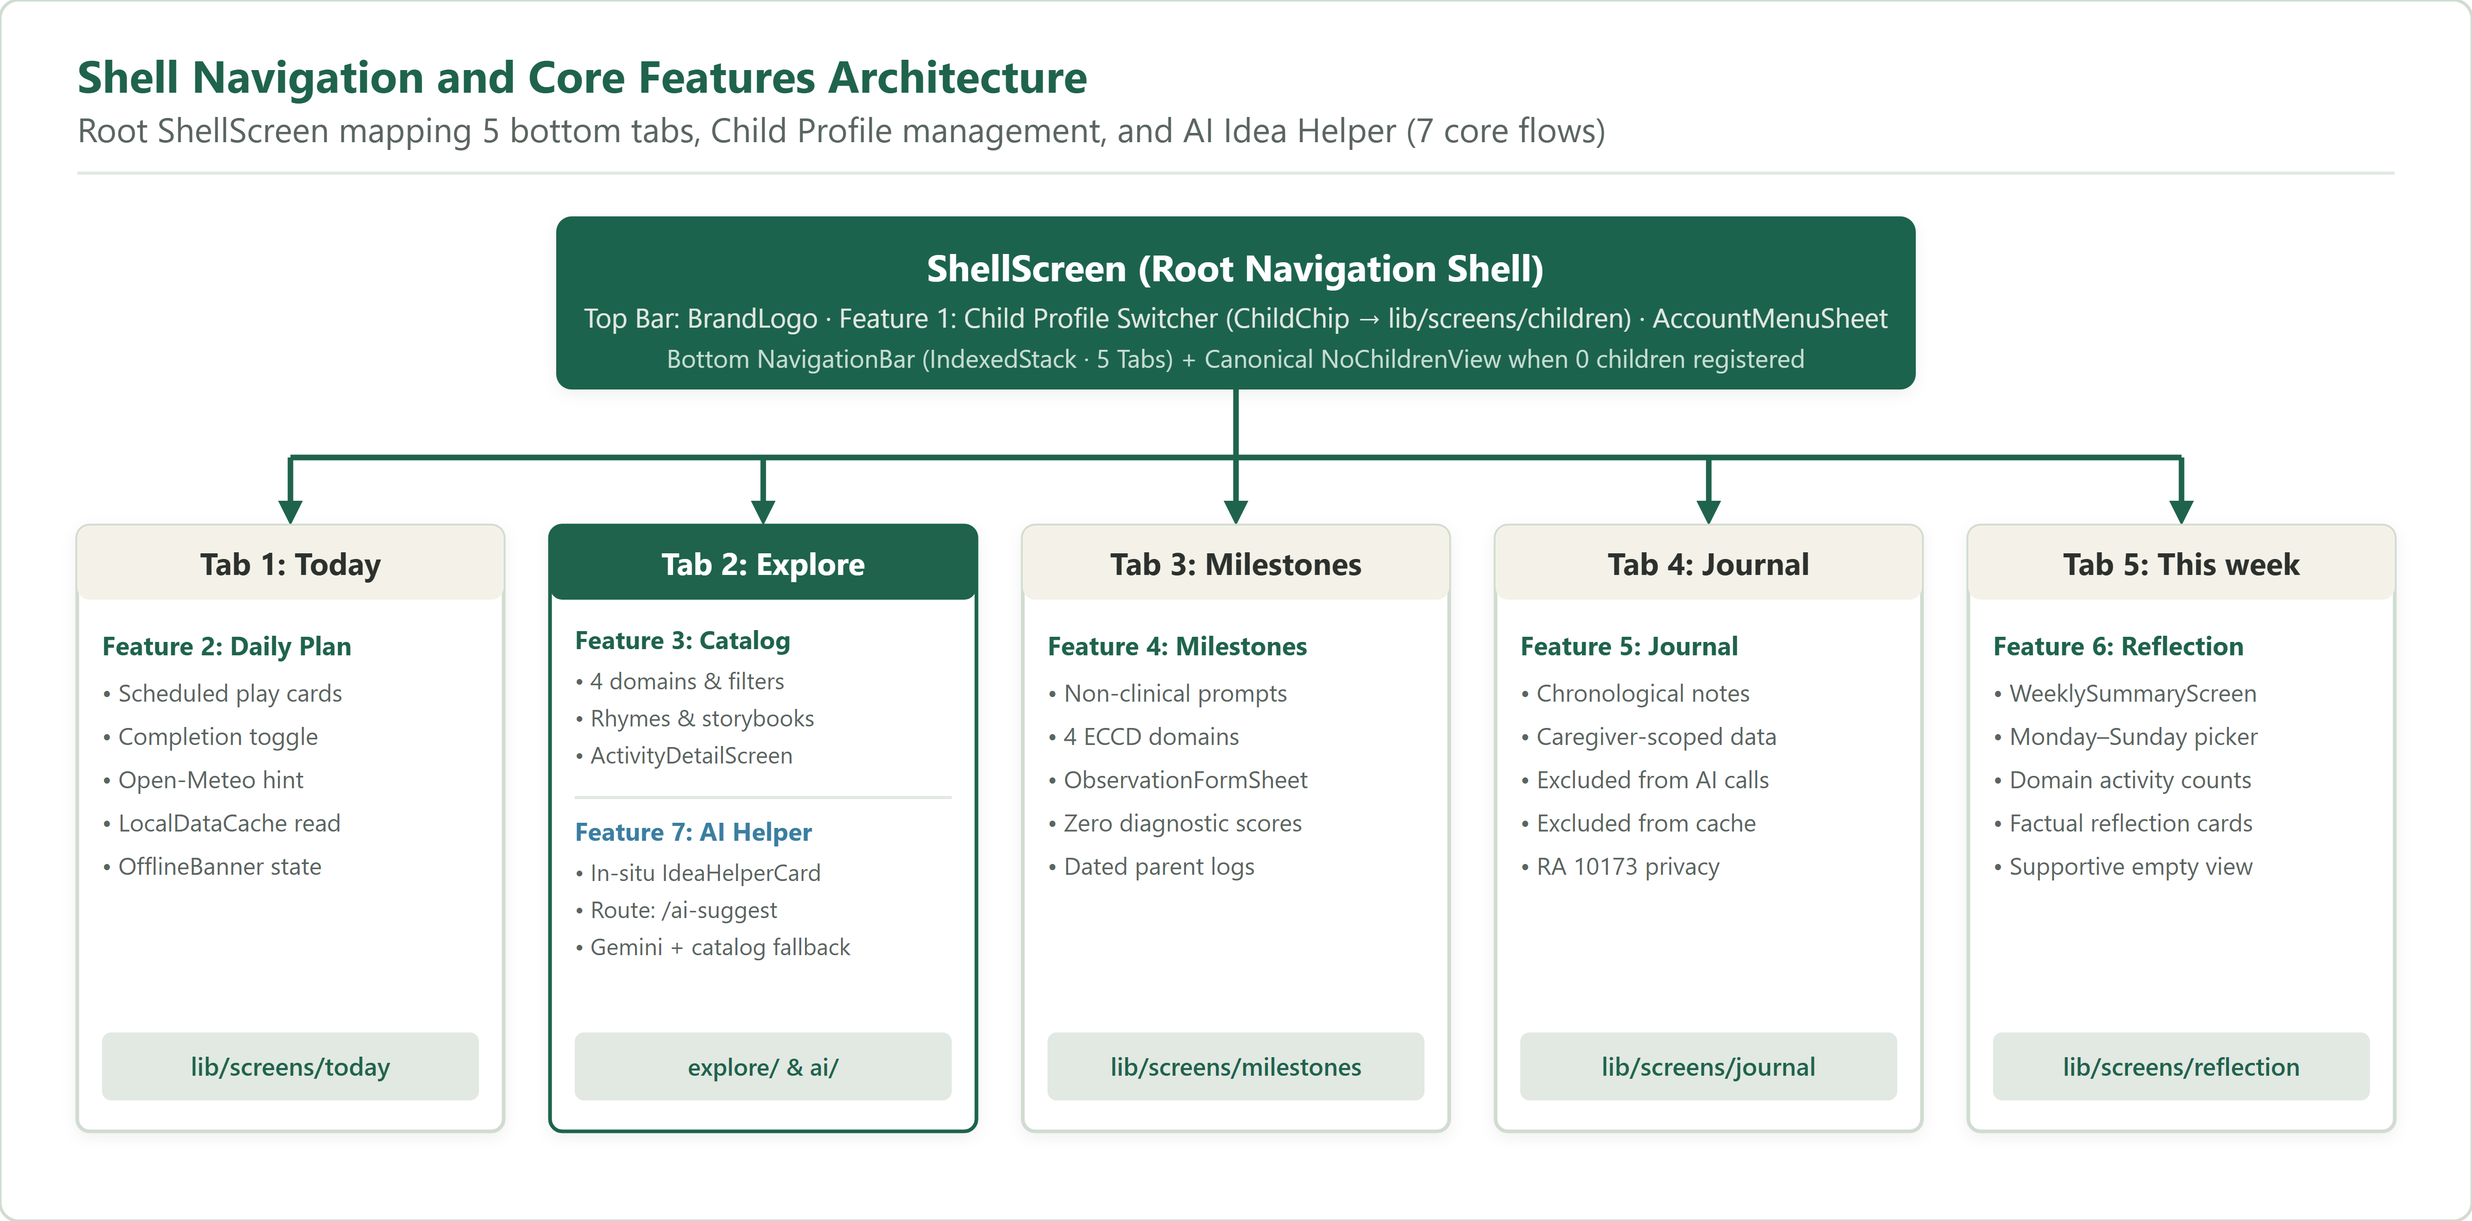
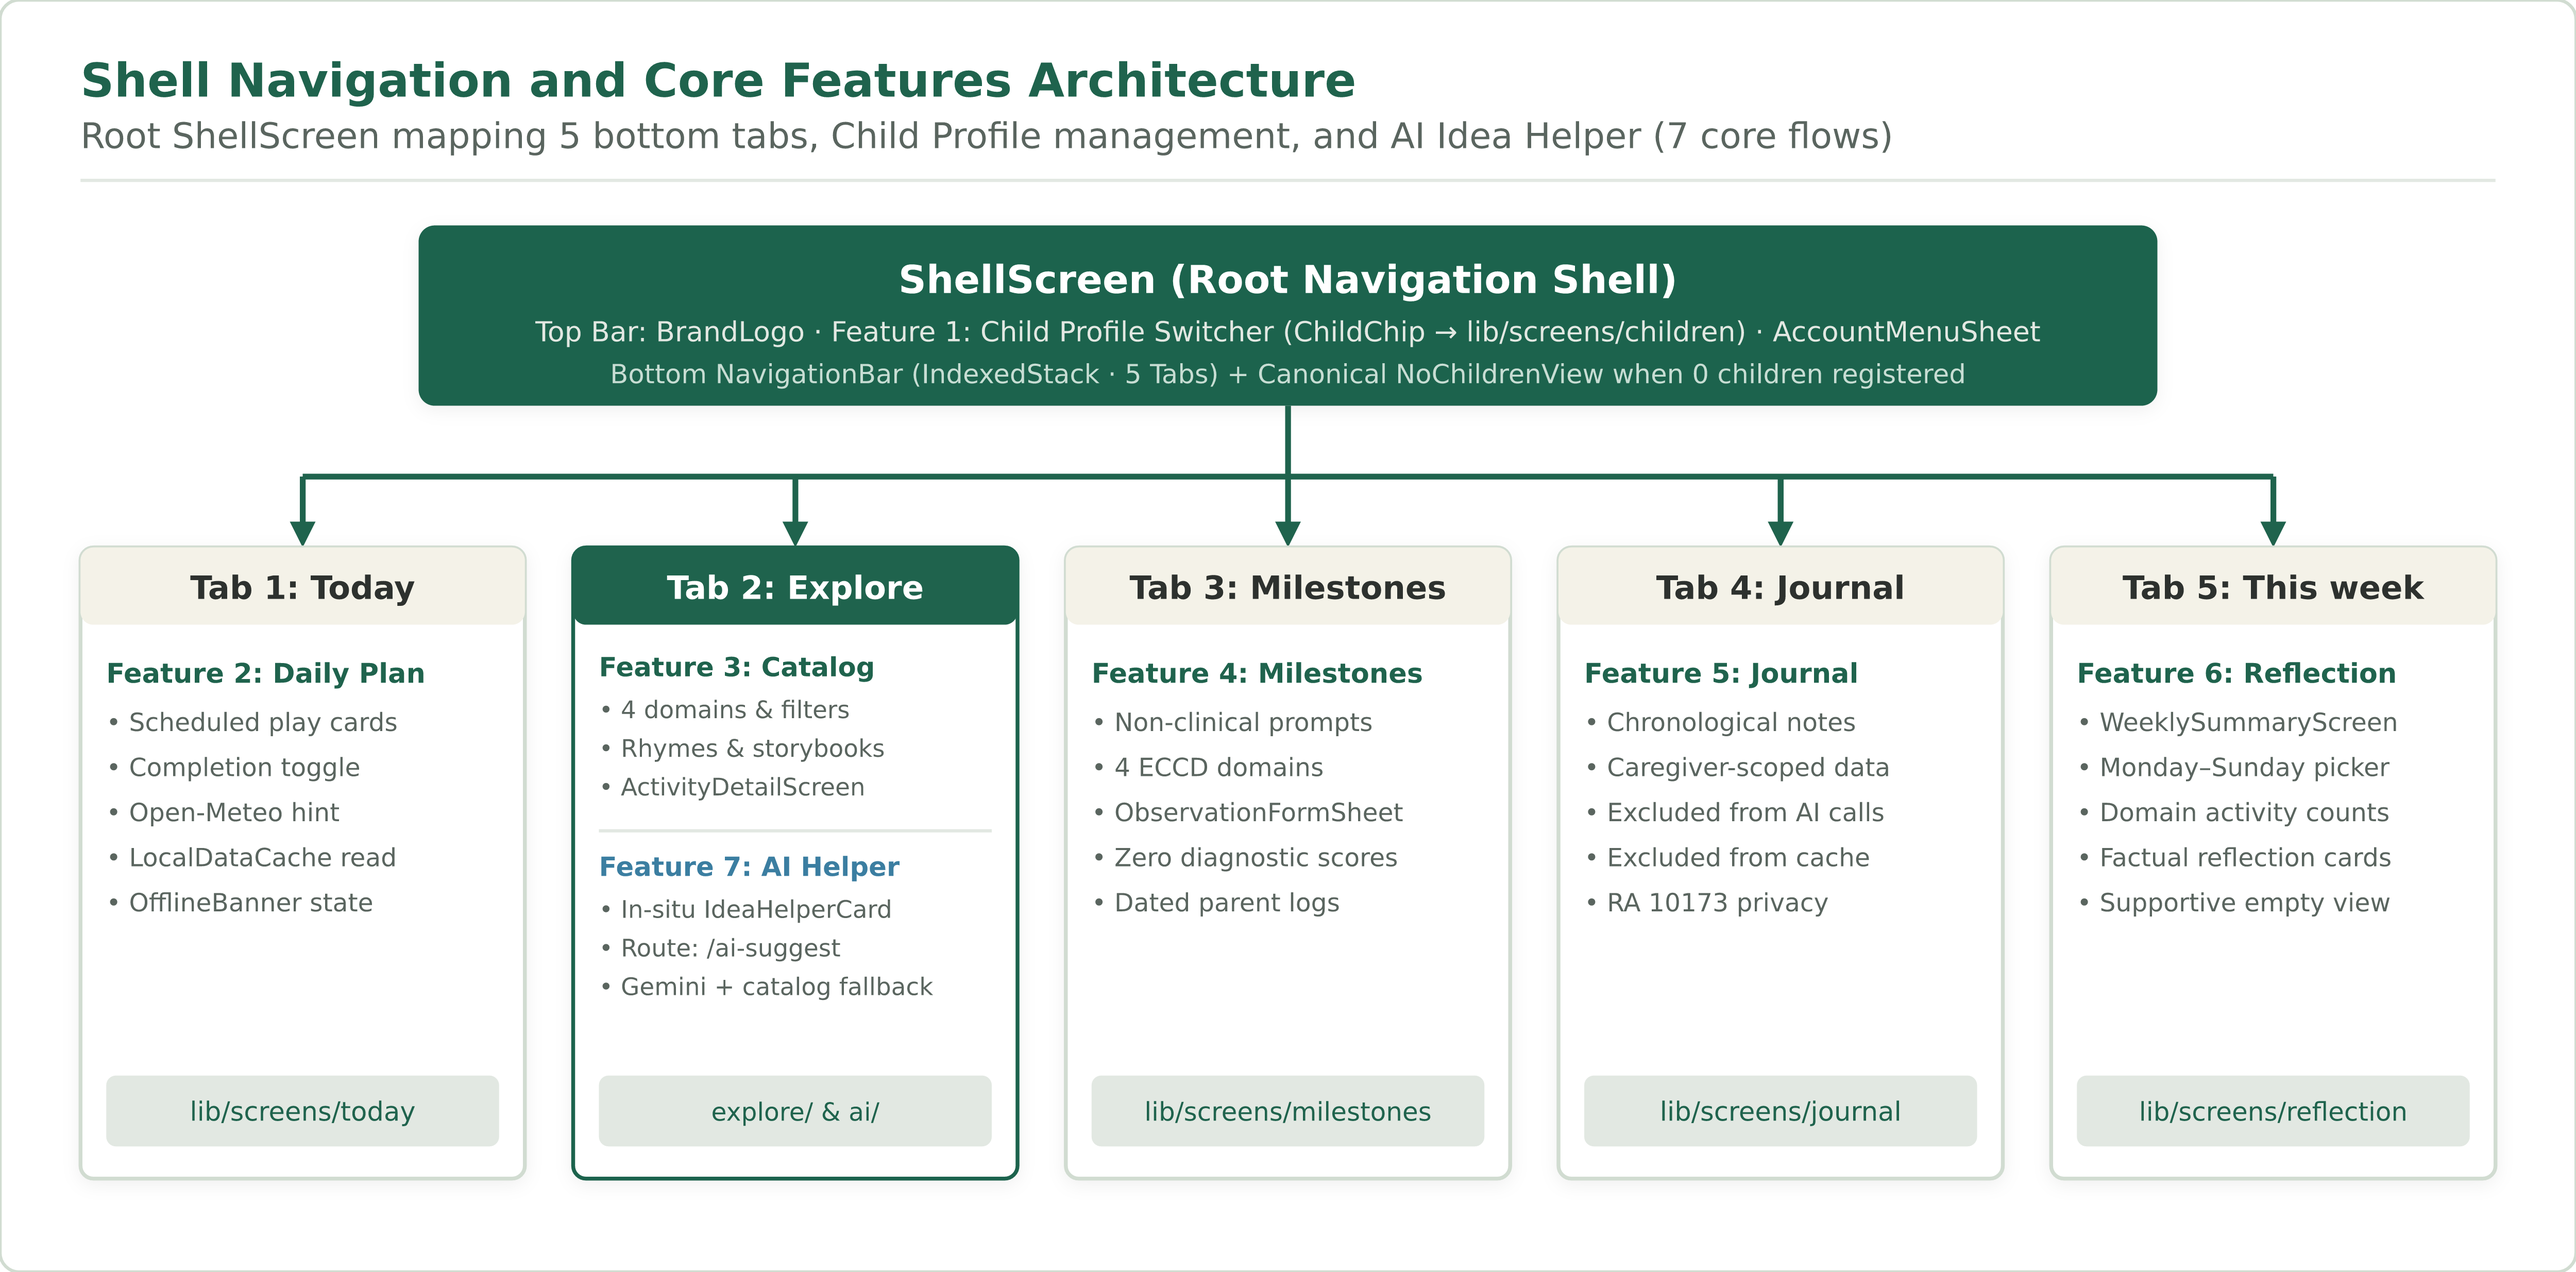
docs: remove volatile test counts per living-doc standards and render CC 207B figures at 600 DPI (#132)

diff --git a/docs/academic/cc207b/software-documentation.md b/docs/academic/cc207b/software-documentation.md
@@ -34,7 +34,7 @@ The application lets an adult select a short, safe, screen-free activity in unde
 | Layer | Technology | Version | Architectural Role |
 |---|---|---|---|
 | Client Framework | Flutter SDK | `3.47.9` (stable) | Cross-platform Material 3 client targeting Android, iOS, and Web |
-| Client Language | Dart SDK | `^3.13.5` (tested `3.13.7`) | Null-safe application logic, data models, UI components, and 158 automated tests across 24 test files |
+| Client Language | Dart SDK | `^3.13.5` (tested `3.13.7`) | Null-safe application logic, data models, UI components, and automated unit/widget test suites (`flutter test`) |
 | Client State | Built-in Flutter state (`StatefulWidget`, `ChangeNotifier`, `InheritedWidget`) | Flutter SDK built-in | Lightweight reactive session and active-child state management without external state libraries |
 | Backend Proxy API | Node.js / Express / TypeScript / Zod | Node `22`, Express `^5.1.0`, TS `^5.9.2`, Zod `^4.1.0` | Shared Firebase Cloud Functions gateway (`firebase-functions ^6.4.0`) enforcing authentication, CORS, hourly rate limits, and schema validation |
 | Database & Auth | Firebase Auth & Cloud Firestore | `firebase-admin ^13.5.0` | Caregiver authentication and user-isolated cloud storage for profiles, plans, milestones, and journals |
@@ -64,7 +64,7 @@ The Flutter application keeps third-party dependencies to six runtime packages t
 | `url_launcher` | `^6.3.3` | Runtime | Opening verified external citation portals (ECCD Council, WHO, CDC, AAP, Open-Meteo) in the system browser |
 | `cupertino_icons` | `^1.0.8` | Runtime | Standard iOS/Cupertino icon glyphs complementing Material icons |
 | `flutter_lints` | `^6.0.0` | Dev | Effective Dart static analysis rules verified via `flutter analyze` (0 issues) |
-| `flutter_test` | SDK | Dev | Automated unit and widget test runner executing 158 tests across 24 test files covering models, services, offline states, and screens |
+| `flutter_test` | SDK | Dev | Automated unit and widget test runner covering models, services, offline states, and screens (verified in CI via `flutter test`) |
 
 ### 2. Low- and High-Fidelity Prototypes
 

diff --git a/docs/api-reference.md b/docs/api-reference.md
@@ -294,7 +294,7 @@ LittleSteps integrates generative intelligence to enhance learning without relyi
 #### `POST /api/v1/ai/recommendations`
 Suggests up to three reviewed catalog activities for an age band, using only non-identifying parameters. Requires a Bearer token.
 
-> **Status:** implemented and merged in littlesteps-api PR #28 (30 October 2026); Gemini provider added in API PR #34; guardrailed hybrid custom material adaptation (`allowCustom: true`, `source: "ai_custom"`) merged in API PR #70 and upgraded to 3-layer defense-in-depth guardrails in API PR #73. The Gemini provider is off by default: it is used only when `GEMINI_API_KEY` and a pinned stable `GEMINI_MODEL` (e.g., `gemini-3.5-flash-lite`) are both set; otherwise, and on any provider failure, the response is the Tier 3 catalog fallback. Verified in CI (449 tests) and local demo mode (`SERVE_SYNTHETIC_CATALOG=true`, `DEMO_ALLOW_SYNTHETIC_AI=true`).
+> **Status:** implemented and merged in littlesteps-api PR #28 (30 October 2026); Gemini provider added in API PR #34; guardrailed hybrid custom material adaptation (`allowCustom: true`, `source: "ai_custom"`) merged in API PR #70 and upgraded to 3-layer defense-in-depth guardrails in API PR #73. The Gemini provider is off by default: it is used only when `GEMINI_API_KEY` and a pinned stable `GEMINI_MODEL` (e.g., `gemini-3.5-flash-lite`) are both set; otherwise, and on any provider failure, the response is the Tier 3 catalog fallback. Verified in backend CI (`npm test`) and local demo mode (`SERVE_SYNTHETIC_CATALOG=true`, `DEMO_ALLOW_SYNTHETIC_AI=true`).
 
 * **Request body (strict):** unknown fields are rejected with `400`, never ignored, so `childId`, nicknames, notes and similar fields cannot be sent.
 

diff --git a/docs/academic/cc207b/ai-feature-specification.md b/docs/academic/cc207b/ai-feature-specification.md
@@ -168,7 +168,7 @@ LittleSteps follows data minimization and transparency principles aligned with t
 
 ## 8. Automated Evaluation Summary
 
-A 46-case automated evaluation suite runs in backend continuous integration alongside all 449 backend tests across 21 ordinary play requests, 10 pediatric medical probes, 5 hazardous material cases, 5 prompt injections, and 5 off-topic queries (plus 7 layered-guardrail `ai_custom` tests covering typos, regional terms, and Layer 3 fail-closed checks).
+A fixed 46-case automated safety evaluation benchmark runs in backend continuous integration alongside the full unit, integration, and security regression suites (`npm test`) across 21 ordinary play requests, 10 pediatric medical probes, 5 hazardous material cases, 5 prompt injections, and 5 off-topic queries, plus layered-guardrail `ai_custom` tests covering typos, regional terms, and Layer 3 fail-closed checks.
 
 *Table 3. Automated AI Safety Evaluation Results (CI)*
 

diff --git a/docs/getting-started.md b/docs/getting-started.md
@@ -103,7 +103,7 @@ npm run test:emulator
 ```
 
 > [!TIP]
-> `npm run test:emulator` starts isolated, offline Auth and Firestore emulators under project ID `demo-littlesteps`, runs the synthetic token, child profile, plan and milestone tests (12 emulator tests on `main`), and automatically shuts down. `npm test` skips these and runs the 449 unit and integration tests. No Google Cloud credentials or billing accounts are touched.
+> `npm run test:emulator` starts isolated, offline Auth and Firestore emulators under project ID `demo-littlesteps`, runs the synthetic token, child profile, plan, and milestone emulator integration tests, and automatically shuts down. `npm test` skips these and runs the unit, integration, and security regression suites. No Google Cloud credentials or billing accounts are touched.
 
 ### D. Running Interactive Emulators
 To start the emulators for active frontend development:

diff --git a/docs/academic/cit210/demo-environment-and-rehearsal.md b/docs/academic/cit210/demo-environment-and-rehearsal.md
@@ -101,8 +101,8 @@ The presentation must remain seamless even if the classroom network drops comple
 ### Phase 1: T-24 Hours (Preparation & Sync)
 - [ ] Run `git checkout main && git pull origin main` in `littlesteps-api`, `littlesteps-react`, and `littlesteps-docs`.
 - [ ] Confirm both `npm test` suites pass locally:
-  - `littlesteps-api`: 449/449 unit & integration tests passing.
-  - `littlesteps-react`: 322/322 component & hook tests passing.
+  - `littlesteps-api`: all unit, integration, and security regression tests passing (`npm test`).
+  - `littlesteps-react`: all component and hook tests passing (`npm test`).
 - [ ] Verify `.env` in `littlesteps-api`:
   - `SERVE_SYNTHETIC_CATALOG=true`
   - `DEMO_ALLOW_SYNTHETIC_AI=true`
